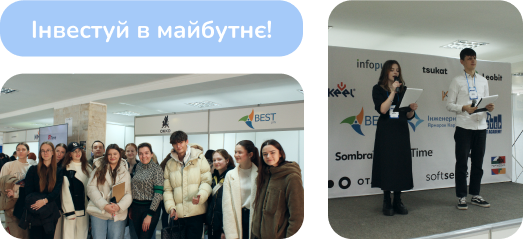
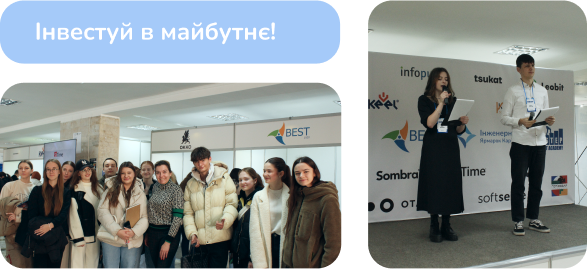
fixed activities

diff --git a/src/app/components/Activities.css b/src/app/components/Activities.css
@@ -1,10 +1,5 @@
 /* Контейнер для заголовка */
-.title {
-  text-align: center;
-  font-size: 2rem;
-  color: #333;
-  margin-top: 20px;
-}
+
 
 /* Основний контейнер */
 .container {
@@ -31,7 +26,7 @@
 .cardcontainer {
   display: flex;
   flex-direction: column;
-  gap: 15px;
+  gap: 1px;
   width: 60%;
   max-width: 450px;
 }
@@ -39,24 +34,27 @@
 /* Стилі для карток */
 .card {
   background-color: #fff;
-  border-radius: 8px;
-  box-shadow: 0 2px 4px rgba(0, 0, 0, 0.1);
+  border-radius: 24px;
   padding: 15px;
   cursor: pointer;
   transition: transform 0.2s, box-shadow 0.2s;
+  border: 3px solid #257BFC;
+  max-height: 100px;;
 }
 
 .card:hover {
   transform: scale(1.02);
-  box-shadow: 0 4px 8px rgba(0, 0, 0, 0.2);
 }
 
 .card-expanded {
-  background-color: #f9f9f9;
+  background-color: #fff;
 }
 
 .card-collapsed {
   background-color: #fff;
+  max-height: 100px;
+  margin-bottom: 0%;
+  gap:0;
 }
 
 /* Заголовок картки */
@@ -76,12 +74,12 @@
   color: #444;
   margin: 0;
   flex-grow: 1;
-  margin-left: 10px;
 }
 
 /* Кнопка перемикання */
 .card-toggle {
   transition: transform 0.3s;
+ 
 }
 
 .card-toggle img {
@@ -100,24 +98,21 @@
   margin-top: 10px;
   word-wrap: break-word;
   padding: 10px;
-  background-color: #f0f0f0;
+  background-color: #fff;
   border-radius: 4px;
 }
 
-/* Стилі для зображень */
 .pictures {
   display: flex;
   flex-direction: column;
   gap: 15px;
-  width: 35%;
-  max-width: 400px; /* Обмеження ширини для кращого вигляду */
-  align-items: center; /* Вирівнювання зображень по центру */
+  width: 455px; 
+  align-items: center;
 }
 
 .pictures img {
   width: 100%;
   border-radius: 8px;
-  box-shadow: 0 2px 4px rgba(0, 0, 0, 0.1);
 }
 
 /* Медіа-запити для мобільних пристроїв */
@@ -129,14 +124,14 @@
 
   .cardcontainer {
     width: 100%;
-    order: 2; /* Картки будуть розміщені після зображень */
+    order: 2; 
   }
 
   .pictures {
     width: 100%;
     flex-direction: column;
     gap: 10px;
-    order: 1; /* Зображення будуть розміщені перед картками */
+    order: 1; 
   }
 
   .pictures img {
